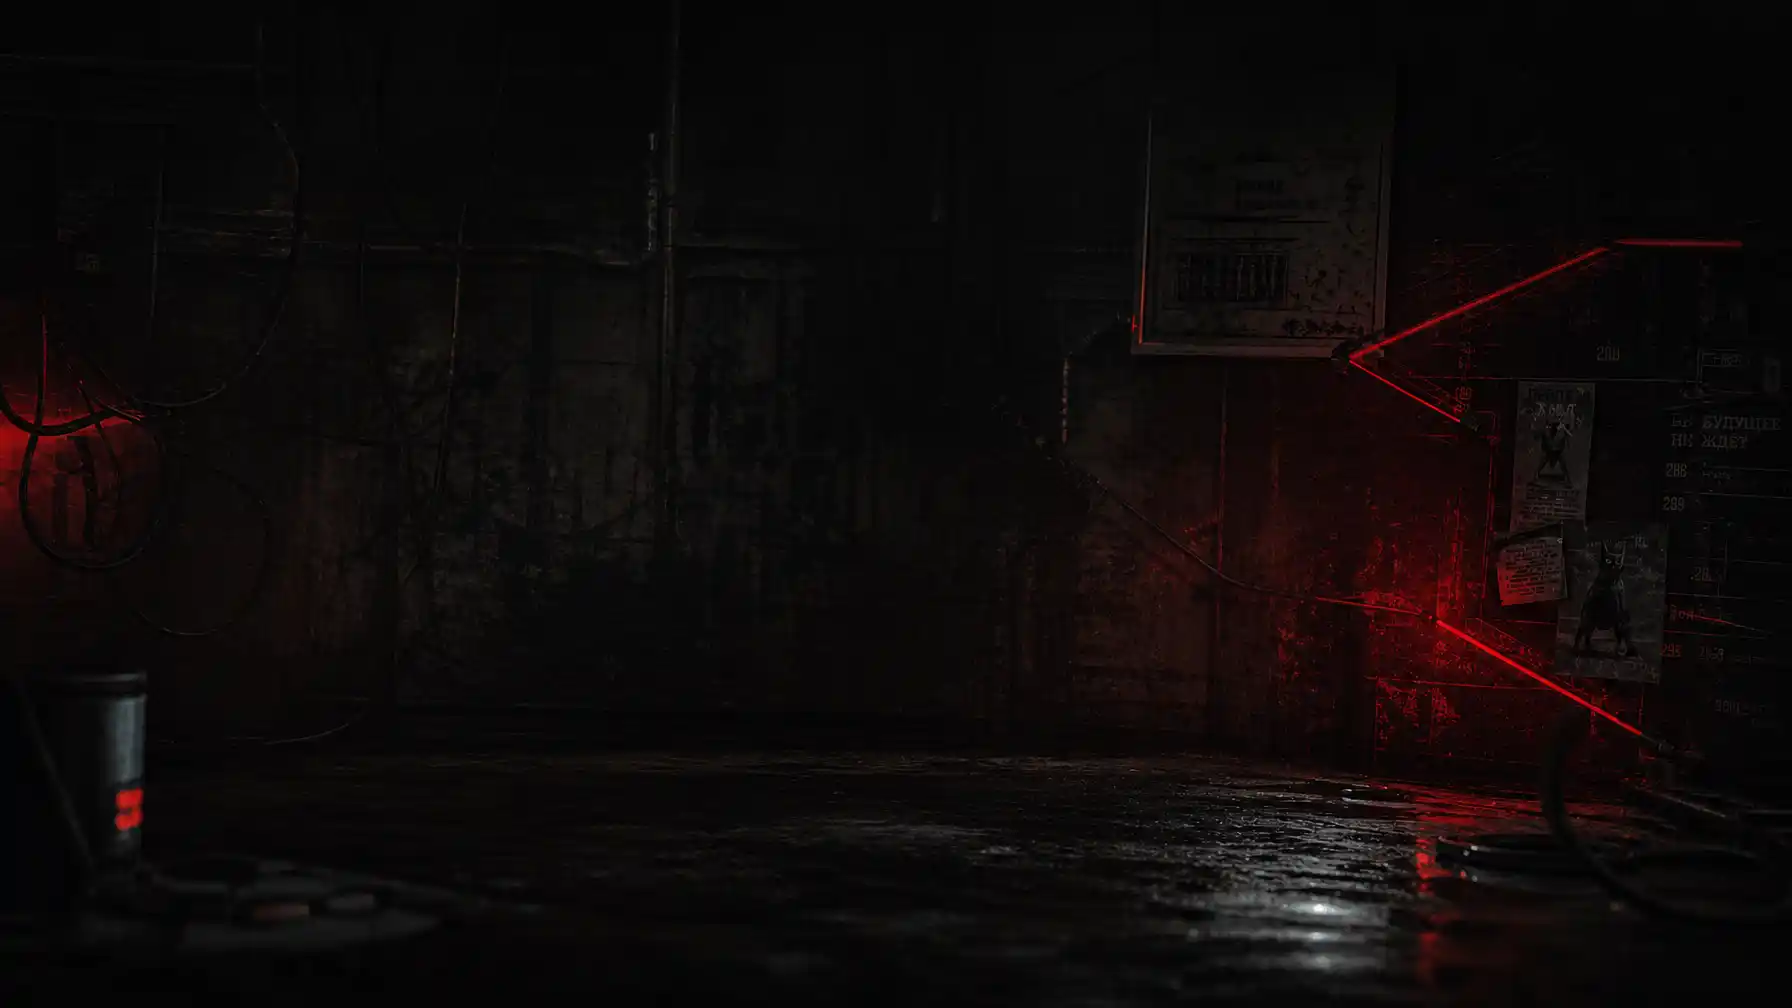
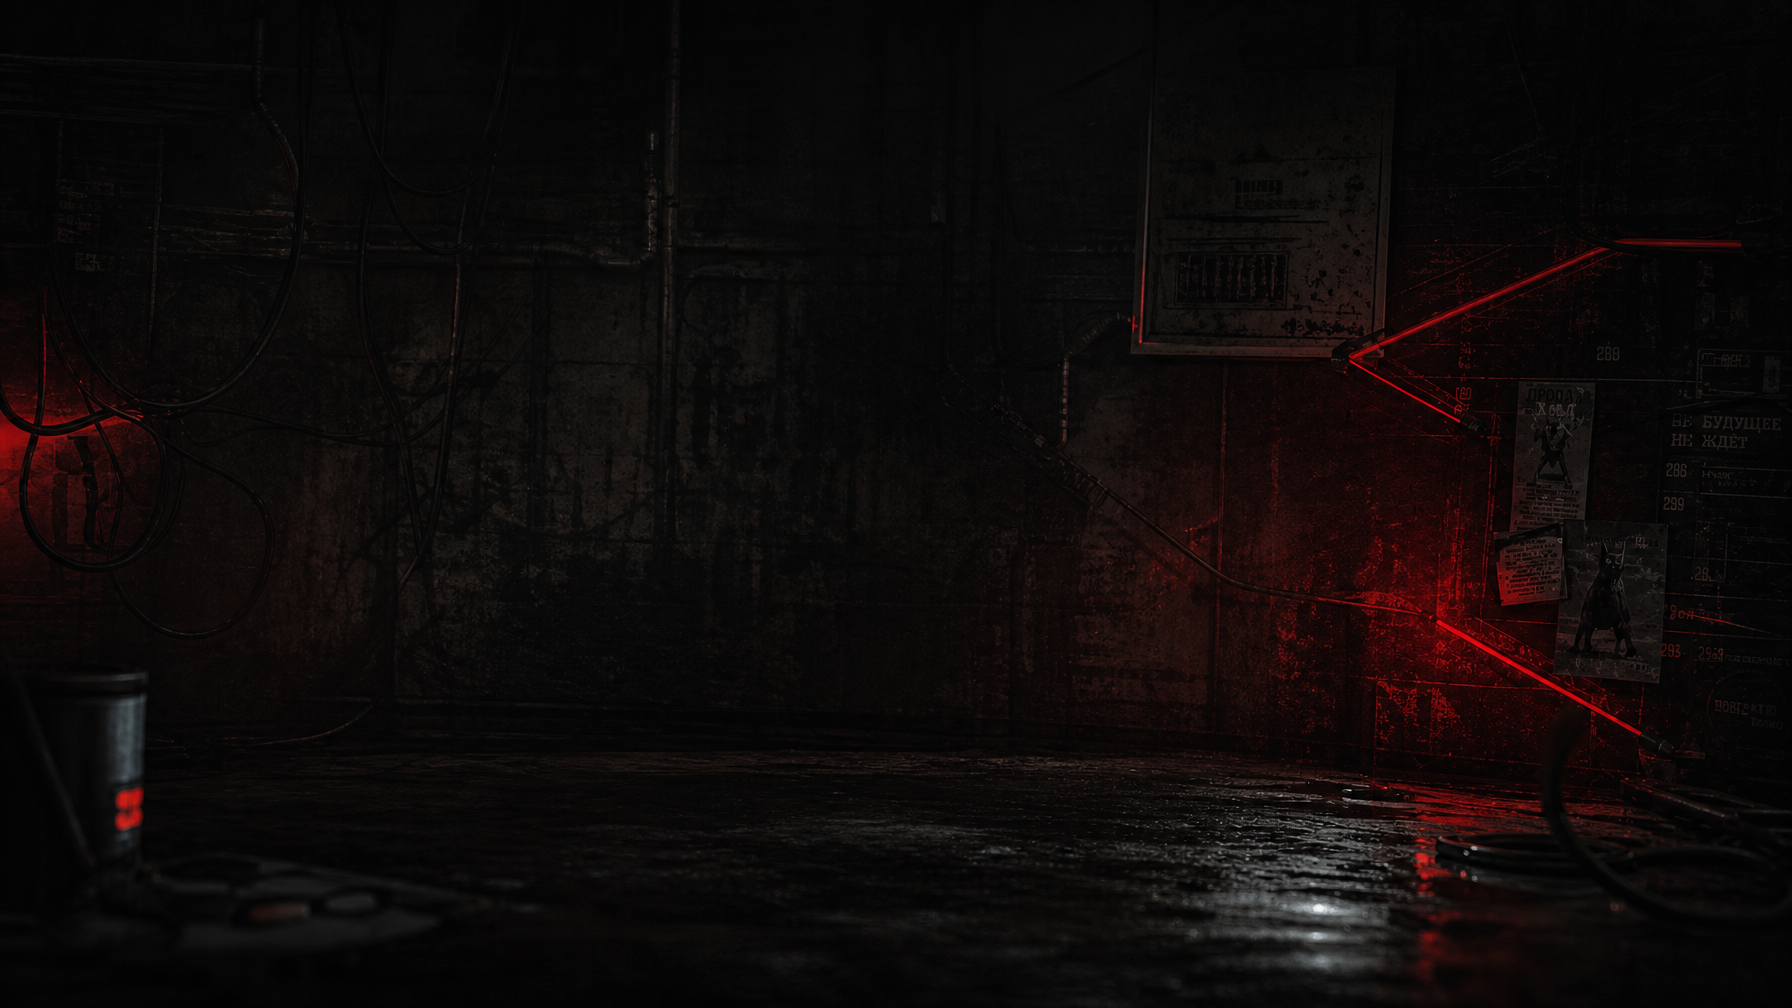
Refine cinematic backgrounds and contact CRT

diff --git a/src/components/sections/FinalCTA.tsx b/src/components/sections/FinalCTA.tsx
@@ -10,28 +10,38 @@ export default function FinalCTA() {
   return (
     <section
       id="contact"
-      className="relative pt-32 pb-20 md:py-36 px-5 md:px-10 lg:px-20 overflow-hidden cinematic-bg"
+      className="relative min-h-screen pt-32 pb-20 md:py-36 px-5 md:px-10 lg:px-20 overflow-hidden cinematic-bg flex items-center"
       style={
         {
           "--section-bg": "url('/images/bg-contact.webp')",
+          "--section-bg-position": "center right",
+          "--section-red-x": "22%",
+          "--section-red-y": "54%",
+          "--section-red-opacity": "0.08",
+          "--section-red-size": "28%",
+          "--section-left-dark": "0.36",
+          "--section-mid-dark": "0.12",
+          "--section-right-dark": "0.48",
+          "--section-top-dark": "0.84",
+          "--section-center-dark": "0.08",
+          "--section-bottom-dark": "0.72",
         } as CSSProperties
       }
     >
-      <div className="absolute inset-0 bg-[radial-gradient(ellipse_at_30%_50%,rgba(139,10,31,0.18)_0%,transparent_60%)] pointer-events-none" />
+      <div className="absolute inset-0 bg-gradient-to-r from-[#050505]/25 via-transparent to-[#050505]/15 pointer-events-none" />
 
-      <div className="max-w-7xl mx-auto relative z-10">
-        {/* CRT — теперь рендерится ПЕРВЫМ и лежит на z-0, чтобы не перекрывать клики */}
+      <div className="max-w-7xl mx-auto relative z-10 w-full">
         <motion.div
-          initial={{ opacity: 0, scale: 0.9 }}
-          whileInView={{ opacity: 1, scale: 1 }}
+          initial={{ opacity: 0, scale: 0.92, x: 40 }}
+          whileInView={{ opacity: 1, scale: 1, x: 0 }}
           viewport={{ once: true }}
-          transition={{ duration: 1.2, delay: 0.4 }}
-          className="hidden lg:block absolute right-0 top-1/2 -translate-y-1/2 w-[46%] h-[700px] pointer-events-none z-0 [&_canvas]:pointer-events-none"
+          transition={{ duration: 1.1, delay: 0.25 }}
+          className="hidden lg:block absolute right-[-2%] top-[48%] -translate-y-1/2 w-[54%] h-[820px] pointer-events-none z-10 [&_canvas]:pointer-events-none"
         >
           <CRTGLB className="w-full h-full" />
         </motion.div>
 
-        <div className="lg:max-w-[58%] w-full relative z-10">
+        <div className="lg:max-w-[54%] w-full relative z-20">
           <motion.div
             initial={{ opacity: 0 }}
             whileInView={{ opacity: 1 }}

diff --git a/src/index.css b/src/index.css
@@ -91,7 +91,8 @@ html.lenis body {
     position: absolute;
     inset: 0;
     z-index: -2;
-    background: var(--section-bg) center / cover no-repeat;
+    background: var(--section-bg) var(--section-bg-position, center) / cover
+        no-repeat;
 }
 
 .cinematic-bg::after {
@@ -102,28 +103,28 @@ html.lenis body {
     pointer-events: none;
     background:
         radial-gradient(
-            circle at 28% 42%,
-            rgba(139, 10, 31, 0.16),
-            transparent 34%
+            circle at var(--section-red-x, 28%) var(--section-red-y, 42%),
+            rgba(139, 10, 31, var(--section-red-opacity, 0.16)),
+            transparent var(--section-red-size, 34%)
         ),
         linear-gradient(
             90deg,
-            rgba(5, 5, 5, 0.78),
-            rgba(5, 5, 5, 0.36) 48%,
-            rgba(5, 5, 5, 0.82)
+            rgba(5, 5, 5, var(--section-left-dark, 0.78)),
+            rgba(5, 5, 5, var(--section-mid-dark, 0.36)) 48%,
+            rgba(5, 5, 5, var(--section-right-dark, 0.82))
         ),
         linear-gradient(
             180deg,
-            rgba(5, 5, 5, 0.78),
-            rgba(5, 5, 5, 0.18) 42%,
-            rgba(5, 5, 5, 0.88)
+            rgba(5, 5, 5, var(--section-top-dark, 0.78)),
+            rgba(5, 5, 5, var(--section-center-dark, 0.18)) 42%,
+            rgba(5, 5, 5, var(--section-bottom-dark, 0.88))
         );
 }
 
 .section-join {
     position: relative;
     z-index: 30;
-    margin-block: -18px;
+    margin-block: -12px;
     box-shadow: 0 18px 45px rgba(0, 0, 0, 0.45);
 }
 

diff --git a/src/components/Marquee.tsx b/src/components/Marquee.tsx
@@ -14,16 +14,16 @@ export default function Marquee({
 
   const styles =
     variant === "caution"
-      ? "bg-[#F5C518] text-black border-y-4 border-black"
+      ? "bg-[#F5C518] text-black border-y-2 border-black"
       : variant === "blood"
         ? "bg-[#8B0A1F] text-[#E8E4DC] border-y border-black/30"
         : "bg-transparent text-[#C0BDB3]/30 border-y border-[#C0BDB3]/10";
 
   return (
     <div
-      className={`section-join relative w-full overflow-hidden py-2.5 md:py-3 ${styles}`}
+      className={`section-join relative w-full overflow-hidden py-2 md:py-2.5 ${styles}`}
       style={{
-        transform: "rotate(-2deg) scale(1.05)",
+        transform: "rotate(-1.35deg) scale(1.04)",
         transformOrigin: "center",
       }}
     >
@@ -39,7 +39,7 @@ export default function Marquee({
       )}
 
       <motion.div
-        className="flex whitespace-nowrap font-mono text-[11px] md:text-[13px] font-black tracking-[0.25em] uppercase relative z-10"
+        className="flex whitespace-nowrap font-mono text-[10px] md:text-[12px] font-black tracking-[0.25em] uppercase relative z-10"
         animate={{ x: ["0%", "-50%"] }}
         transition={{ duration: speed, repeat: Infinity, ease: "linear" }}
       >
